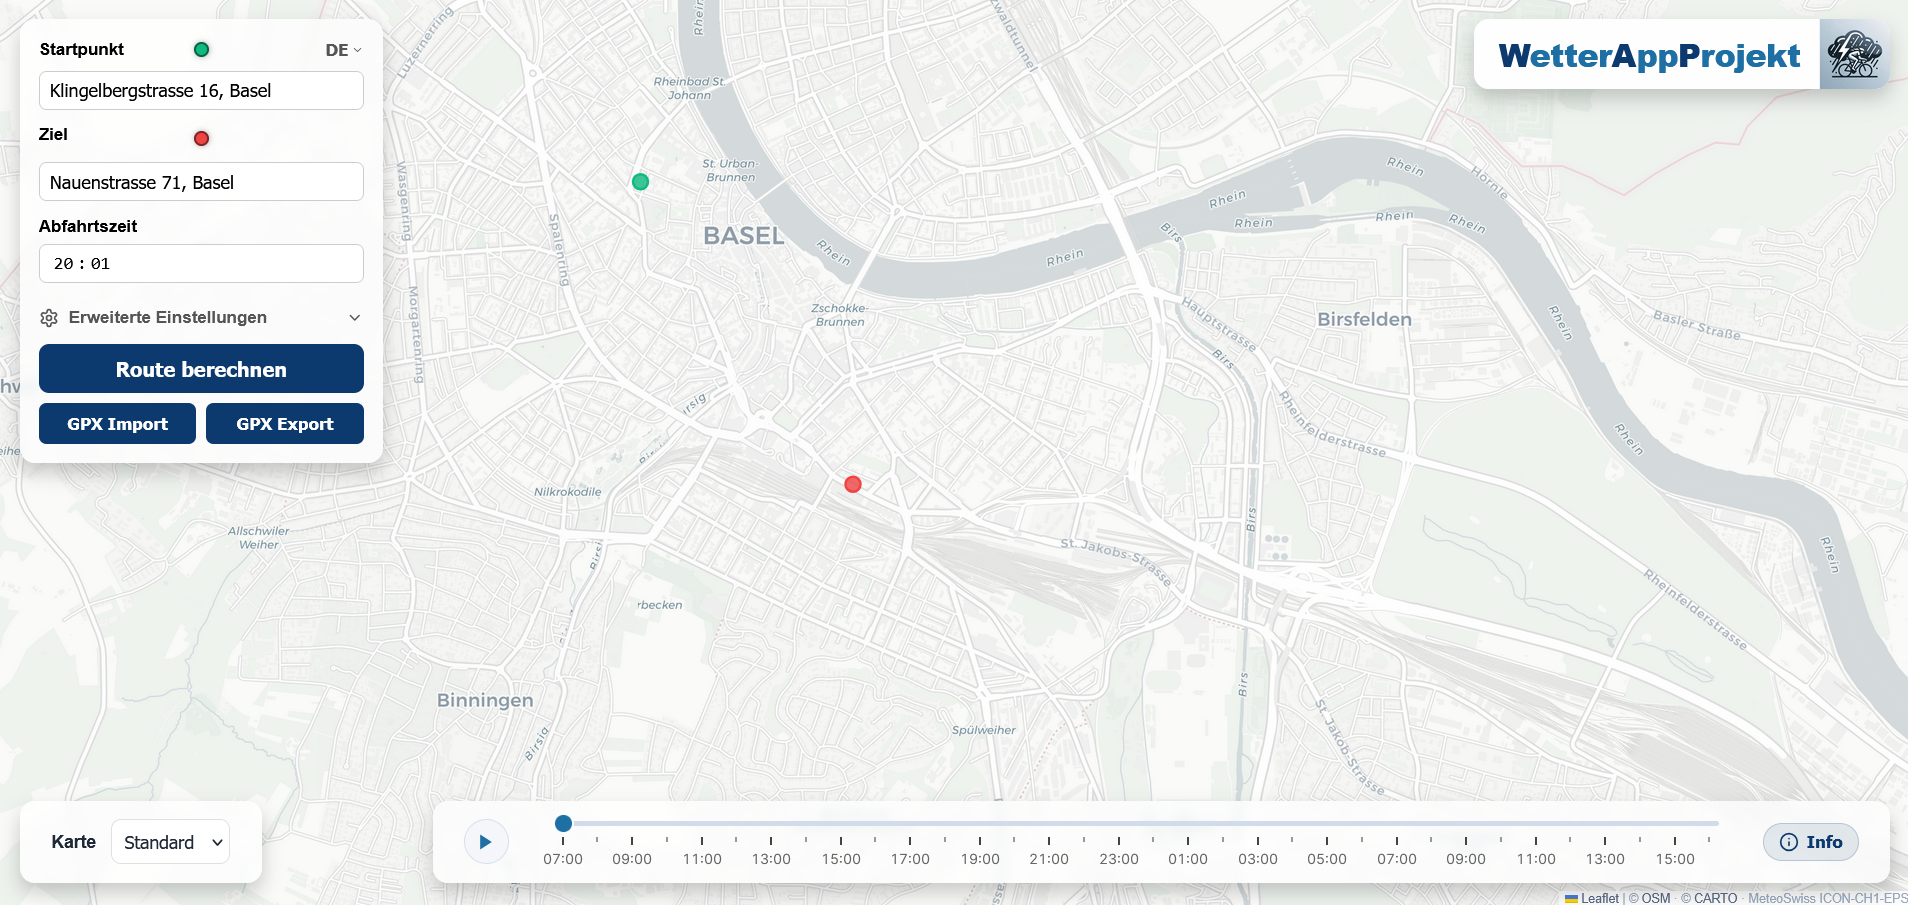
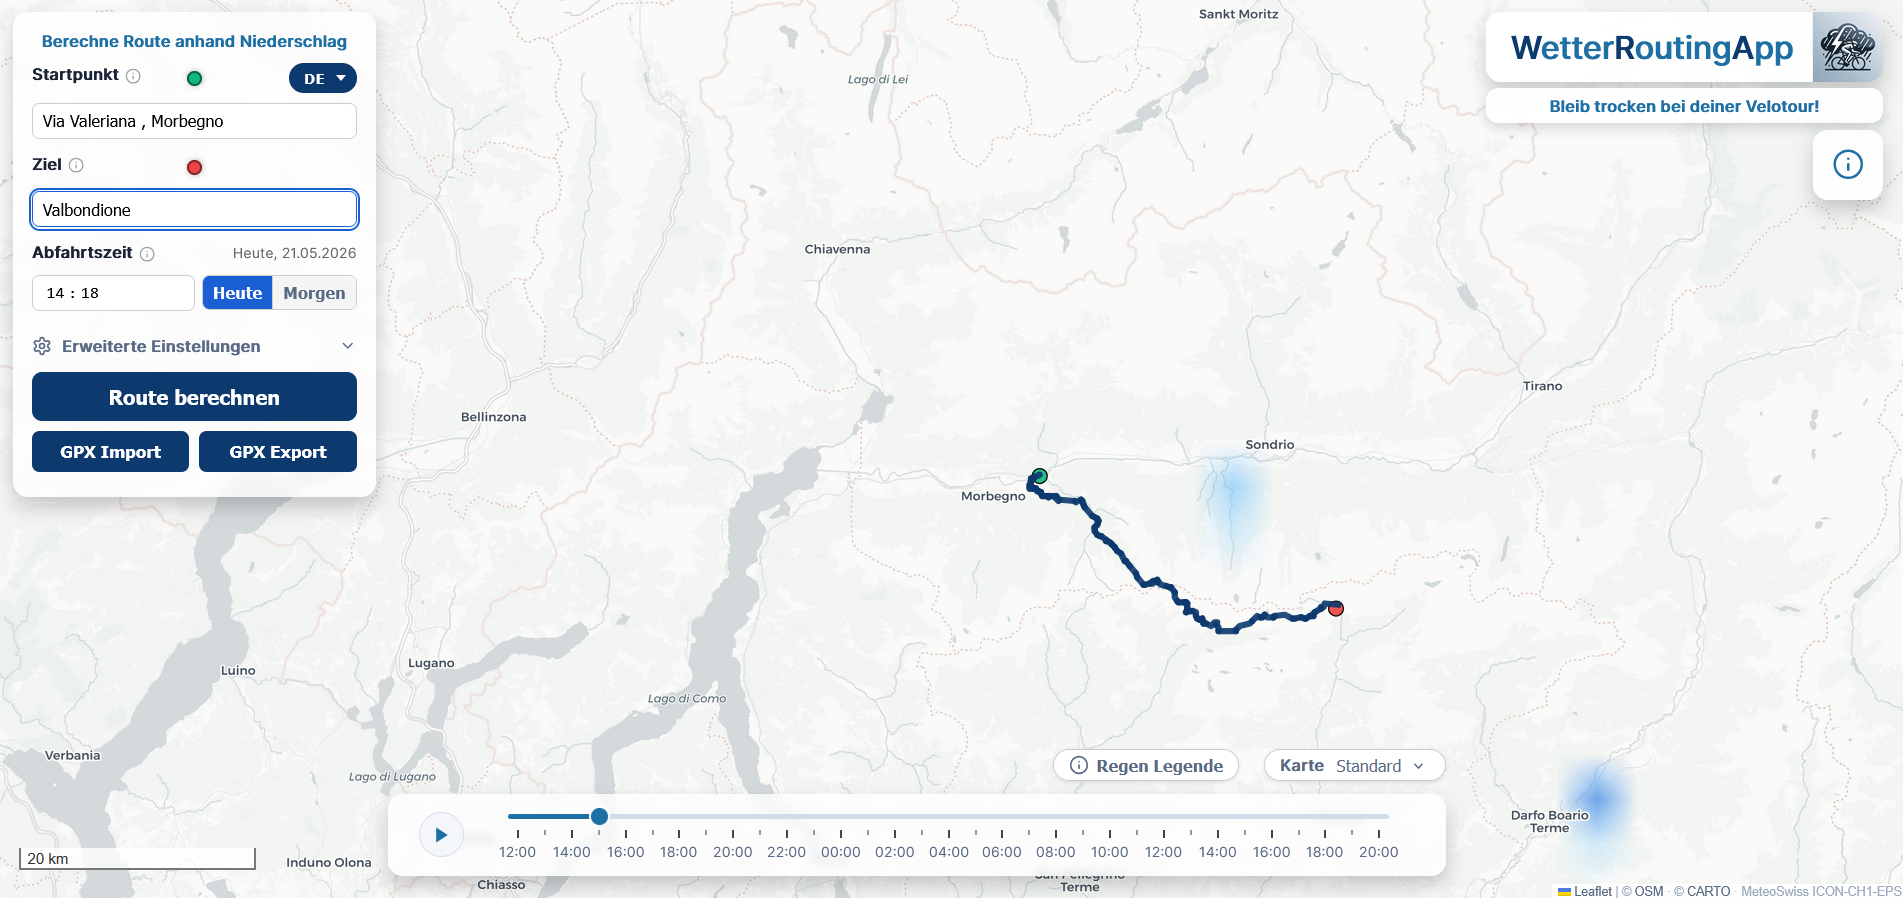
docu ai update

diff --git a/docs/aiusage.md b/docs/aiusage.md
@@ -4,231 +4,59 @@ title: AI Nutzung
 
 # AI Nutzung
 
-Diese Datei beschreibt die Verwendung, Erzeugung und Zuordnung der Wetterdaten im Projekt Wetter Routing App.
+Diese Seite beschreibt, wie und wo künstliche Intelligenz im Projekt eingesetzt wurde: zur Erschliessung von Themenbereichen, beim Debugging, beim Prototyping und bei der Lösung von Architekturproblemen.
 
-## Überblick
+---
 
-Die Wetter Routing App verwendet Wetterdaten im NetCDF-Format, um Routen wetterabhängig bewerten zu können. Die Daten stammen aus dem Open-Data-Angebot von MeteoSwiss und werden im Projekt insbesondere zur Bewertung von Niederschlag entlang einer Route genutzt.
+## Einstieg in die Wetterdaten
 
-Die Wetterdaten ermöglichen es, betroffene Kanten im Routinggraphen zu erkennen und abhängig von der Niederschlagsmenge höher zu gewichten. Dadurch können Routen berechnet werden, die wetterbezogene Einflüsse berücksichtigen.
+Zu Beginn des Projekts war der Umgang mit Wetterdaten und den zugehörigen Formaten weitgehend unbekannt. AI half dabei, einen schnellen Überblick über verfügbare Datenquellen zu gewinnen: Was bietet MeteoSwiss an, welche Formate werden verwendet, was sind die Unterschiede zwischen GRIB2, NetCDF und ICON-Gittern?
 
-Der Zusammenhang mit der API-Verarbeitung ist in [Architektur](architecture.html#aufbau-der-api-verarbeitung) beschrieben. Die Verwendung der Wetterwerte in der Kostenfunktion steht in [Routing-Logik](routing.html#kantenbewertung).
+Nach allgemeinem Recherchieren konnten Vor- und Nachteile verschiedener Ansätze gezielt nachgefragt werden, etwa der Vergleich von ICON-CH1-EPS mit alternativen Quellen wie Copernicus-Satellitendaten. Entscheidend war dabei das Verifizieren, ob vorgeschlagene Ansätze überhaupt umsetzbar und zielführend waren, bevor Zeit in die Implementierung investiert wurde.
 
-## NetCDF-Ablagestruktur
+---
 
-Die Routing-API erwartet die NetCDF-Dateien im folgenden Ordner:
+## Experimentelle Phase mit Notebooks
 
-```text
-backend/data/NC/
-```
+Als Ausgangspunkt für die Wetterdatenverarbeitung wurden Jupyter Notebooks aus dem offiziellen MeteoSwiss-Repository [meteodata-lab](https://github.com/MeteoSwiss/meteodata-lab) erkundet, darunter Beispiele wie `07_where_will_it_rain_next_24h`. Die eigenen Explorations-Notebooks sind im Ordner `_apriori/` abgelegt.
 
-### Wetterdaten
+AI wurde dabei gezielt eingesetzt, um die behandelten Beispiele detaillierter zu erklären und mit relevanten Code-Snippets für das Weitertesten zu erweitern. So konnte schnell ein Verständnis für die Datenstruktur (Ensemble-Member, Lead-Time-Dimensionen, unstrukturiertes ICON-Gitter) aufgebaut werden.
 
-Die Forecast-Dateien enthalten einen Unix-Timestamp im Dateinamen, zum Beispiel:
+Nach dieser Explorationsphase liessen sich die Erkenntnisse rasch in direkte `.py`-Skripte überführen.
 
-```text
-1712345678.nc
-```
+---
 
-Der Timestamp entspricht dem Referenzzeitpunkt des Modellaufs (nicht dem Zeitpunkt des Downloads). Er dient zur Zuordnung der Startzeit einer Routinganfrage und zur Prüfung der zeitlichen Gültigkeit der Datei. Das Backend leitet daraus den Lead-Time-Index ab:
+## Architekturproblem: meteodata-lab und ARM64
 
-```text
-lead_h = (departure_unix - file_stem) / 3600
-```
+Das grösste architekturelle Problem entstand beim Deployment auf den Raspberry Pi. Es wurde zunächst angenommen, dass `meteodata-lab` auf dem Pi lauffähig sei, weil weder Windows noch WSL-Ubuntu grössere Schwierigkeiten zeigten. Auf dem Pi mit ARM64-Architektur fehlten jedoch die nötigen Binaries für `meteodata-lab` und seine Abhängigkeiten (`earthkit`, `rasterio`).
 
-### Hilfsdatei für Wetterzellen
+AI half dabei, einen alternativen Ansatz zu entwickeln: eine direkte Pipeline über den MeteoSwiss STAC-Katalog mit `eccodes` für die GRIB2-Dekodierung und `scipy` für das Regridding. Diese Kombination ist ARM64-kompatibel und bildet heute die Grundlage von `backend/utils_fetch.py`. Mehr dazu steht in [Architektur](architecture.html).
 
-Für die Zuordnung von OSM-Kanten zum Wetterraster wird bevorzugt folgende Datei verwendet:
+> Das Paket `meteodata-lab` (offizieller MeteoSwiss-Client) hat kein ARM64-Package. Es wurde durch eine direkte STAC/eccodes-Implementierung ersetzt.
 
-```text
-NC_for_Cellid.nc
-```
+---
 
-Diese Datei enthält eine reduzierte Rastergeometrie (nur `lat` und `lon`) und wird beim Erstellen neuer Graphen verwendet. Falls sie beim Start noch nicht existiert, wird sie gemäss [Startup](startup.html#schritt-2-nc_for_cellid-vorbereiten) erzeugt.
+## Agentic AI im Projektalltag
 
-## GRIB2-, xarray- und NetCDF-Datenstruktur
+Im Verlauf des Projekts wurde GitHub Copilot mit agentem Modus und Claude Sonnet 4.6 als Modell intensiv genutzt. Die direkte Darstellung des Reasonings war dabei besonders hilfreich: Sie ermöglichte nachzuvollziehen, ob der eigene Prompt präzise genug war, wie plausibel die Fehlersuche des Modells war und wie realistisch der vorgeschlagene Lösungsansatz einzuschätzen ist.
 
-MeteoSwiss veröffentlicht die ICON-CH1-EPS-Daten im GRIB2-Format über den STAC-Katalog (`data.geo.admin.ch`). GRIB2 ist ein binäres Rasterformat der WMO, das Meteorologen weltweit verwenden. Es enthält komprimierte Felder pro Zeitschritt und Ensemble-Member, jedoch ohne reguläre Lat/Lon-Koordinaten, da ICON ein unstrukturiertes Dreiecksgitter verwendet.
+Kombiniert mit dem vollständigen Projektkontext, den man dem Modell mitgeben konnte, wurde Agentic Usage zu einem starken Werkzeug für komplexe Aufgaben. Bei grossen Anpassungen wurde häufig zuerst eine Reihe von Fragen gestellt, um ein genaues Konzept und einen konkreten Ablauf zu planen. Erst danach wurde der Agentic Mode für die Umsetzung verwendet.
 
-Für die Weiterverarbeitung im Projekt ist folgende Umwandlungskette relevant:
+Typische Einsatzgebiete:
 
-```text
-STAC-Katalog (HTTP)
-  → GRIB2-Datei je Lead-Time (34 Dateien × N Ensemble-Member)
-    → eccodes: Dekodierung der Binärdaten zu NumPy-Arrays
-      → scipy KD-Tree: Regridding auf reguläres Lat/Lon-Raster (429 × 295)
-        → xarray.Dataset: Zusammenführung aller Zeitschritte + Dimensionen
-          → netCDF4: Speicherung als .nc-Datei
-```
+| Bereich | Beschreibung |
+| --- | --- |
+| Themenerschliessung | Überblick über Wetterdatenformate, ICON-Modell, Ensemble-Forecasts |
+| Debugging | Eingrenzen von Fehlern in der GRIB2-Pipeline, Graphverarbeitung, API-Antworten |
+| Prototyping | Schnelle Umsetzung von Ideen in lauffähigen Code, z. B. Regridding, Renderer |
+| Architektur | Erarbeitung des STAC-Ansatzes als Ersatz für meteodata-lab auf ARM64 |
+| Dokumentation | Strukturierung und Formulierung dieser Dokumentation |
 
-### Warum diese Umwandlung?
+---
 
-Das ICON-Gitter hat ~600'000 unstrukturierte Gitterpunkte ohne feste Zeilen-/Spaltenindizes. Für das Routing muss aber jede OSM-Kante einem Rasterpunkt zugeordnet werden — das funktioniert nur auf einem regulären Koordinatengitter. xarray erlaubt danach die effiziente Arbeit mit benannten Dimensionen (`lead_time`, `eps`, `y`, `x`), und NetCDF ist das Standardformat für geowissenschaftliche Zeitreihen.
+## Verwendete Modelle
 
-### Inhalt der gespeicherten NC-Datei
-
-Jede gespeicherte Datei enthält drei Variablen:
-
-| Variable | Dimensionen | Beschreibung |
-|---|---|---|
-| `TOT_PREC` | `(eps, lead_time, y, x)` | Kumulierter Niederschlag aller Ensemble-Member (Rohwert) |
-| `hourly_rain` | `(lead_time, y, x)` | Ensemble-Mittelwert des stündlichen Niederschlags (diff von TOT_PREC) |
-| `hourly_rain_p90` | `(lead_time, y, x)` | 90. Perzentil des stündlichen Niederschlags über alle Ensemble-Member |
-
-`TOT_PREC` wird für die Routingkostenfunktion verwendet. `hourly_rain` und `hourly_rain_p90` werden von `utils_render.py` direkt ausgelesen und als PNG-Kacheln gerendert, ohne dass bei der Anfrage noch numpy- oder xarray-Operationen anfallen.
-
-## Aufbereitung der NetCDF-Datei
-
-Die Wetterdaten werden durch `utils_fetch.py` bezogen, verarbeitet und als NetCDF-Datei gespeichert. Das Skript greift per HTTP direkt auf den MeteoSwiss-OGD-STAC-Katalog zu und verarbeitet die Rohdaten mit `eccodes`.
-
-| Parameter | Verwendung im Projekt |
-|---|---|
-| MeteoSwiss-Collection | `ch.meteoschweiz.ogd-forecasting-icon-ch1` |
-| Forecast-Variable | `TOT_PREC`: kumulierter Niederschlag; Grundlage für den daraus abgeleiteten stündlichen Niederschlag |
-| Datenformat | GRIB2 (je Lead-Time eine Datei, je Datei N Ensemble-Member als separate GRIB-Messages) |
-
-### Ablauf der Wetterdaten-Erzeugung
-
-Die Wetterdaten-Erzeugung umfasst folgende Schritte:
-
-1. STAC-Katalog abfragen: Neuesten vollständigen ICON-CH1-Modelllauf ermitteln.
-2. Gitter-Koordinaten laden: ICON-CH1 CLAT/CLON einmalig als `horizontal_constants` GRIB2 (~200 MB) herunterladen und als `.npy` cachen.
-3. Regridding-Indizes aufbauen: Mit `scipy.cKDTree` für jeden Ausgabepixel (429 × 295) den nächsten nativen Gitterpunkt bestimmen. Ergebnis wird als `icon_ch1_regrid_indices.npy` gecacht (Bauzeit ~1 min auf dem Raspberry Pi).
-4. GRIB2 herunterladen und dekodieren: Für alle 34 Lead-Times je eine GRIB2-Datei abrufen; `eccodes` liest daraus je Ensemble-Member ein NumPy-Array.
-5. Regridding anwenden: Die nativen ICON-Vektoren per Fancy-Indexing auf das reguläre 429 × 295 Raster umrechnen.
-6. Dataset zusammenführen: Alle Zeitschritte und Ensemble-Member zu einem `(eps, lead_time, y, x)` xarray-DataArray kombinieren.
-7. Stündlichen Niederschlag und p90 berechnen: `hourly_rain = mean(TOT_PREC, axis=eps).diff("lead_time")`; p90 wird direkt im Speicher mit `np.sort(axis=0)` berechnet.
-8. Sehr kleine Werte unter `0.01 mm/h` auf `0.0` setzen, damit numerische Restwerte nicht als Regen interpretiert werden.
-9. Als timestamp-basierte `.nc`-Datei speichern (drei Variablen: `TOT_PREC`, `hourly_rain`, `hourly_rain_p90`).
-10. `utils_render.py` aufrufen, um sofort alle 33 × 2 PNG-Kacheln zu erzeugen.
-
-### Räumliche Aufbereitung
-
-Die MeteoSwiss-ICON-Daten liegen auf einem unstrukturierten Dreiecksgitter mit ~600'000 Punkten vor. Für die Zellzuordnung im Routinggraphen werden sie auf ein reguläres Raster projiziert:
-
-```text
-Koordinatensystem: EPSG:4326 (WGS84)
-Ausdehnung:        -0.817, 18.183, 41.183, 51.183  (lon_min, lon_max, lat_min, lat_max)
-Rastergrösse:      429 × 295
-```
-
-Die Umrechnung erfolgt mit einem vorberechneten Nearest-Neighbour-Index (scipy KD-Tree). Die Gitter-Koordinaten und der Index werden als `.npy`-Dateien gecacht:
-
-```text
-backend/.fetch_cache/icon_ch1_clat.npy
-backend/.fetch_cache/icon_ch1_clon.npy
-backend/.fetch_cache/icon_ch1_regrid_indices.npy
-```
-
-Diese Bounds stimmen exakt mit `BOUNDS` in `frontend/js/config.js` und dem Zielraster in `utils_render.py` überein. Dies ist später für die Zellzuordnung relevant.
-
-### Zeitliche Aufbereitung
-
-Die Forecast-Horizonte werden im Bereich von **0 bis 33 Stunden** geladen.
-
-Da `TOT_PREC` kumulierten Niederschlag beschreibt, wird daraus der stündliche Niederschlag abgeleitet:
-
-```text
-hourly_rain = mean_precip.diff("lead_time")
-```
-
-Im gespeicherten NetCDF-Dataset stehen dadurch drei zentrale Variablen zur Verfügung:
-
-```text
-TOT_PREC          # kumulierter Niederschlag (Rohwert, alle Ensemble-Member)
-hourly_rain       # Ensemble-Mittelwert des stündlichen Niederschlags
-hourly_rain_p90   # 90. Perzentil des stündlichen Niederschlags
-```
-
-Für das Routing ist `hourly_rain` relevant. `hourly_rain_p90` wird für die Unsicherheits-Visualisierung in der Kartendarstellung verwendet.
-
-### Dateibenennung und Aktualisierung
-
-Die erzeugten NetCDF-Dateien erhalten den Unix-Timestamp des Modell-Referenzzeitpunkts als Dateinamen, zum Beispiel:
-
-```text
-1712345678.nc
-```
-
-Die Aktualisierungslogik:
-
-- Beim Start wird geprüft, ob bereits eine aktuelle `.nc`-Datei vorhanden ist.
-- Falls die Daten veraltet sind, wird sofort ein neuer Forecast geladen.
-- Danach läuft ein Scheduler-Daemon, der neue Daten jeweils kurz nach den ICON-CH1-Modellläufen lädt.
-
-Geplante Fetch-Zeiten:
-
-```text
-00:05, 03:05, 06:05, 09:05, 12:05, 15:05, 18:05, 21:05 UTC
-```
-
-Damit orientiert sich die Aktualisierung am dreistündigen Aktualisierungsrhythmus der ICON-CH1-Daten. Auf dem Raspberry Pi wird `utils_fetch.py` als systemd-Dienst gestartet, siehe [Startup](startup.html).
-
-### Abhängigkeiten
-
-Für das Fetching und die Aufbereitung werden folgende Pakete benötigt. Sie werden über die Projektumgebung installiert, siehe [Installation](installation.html).
-
-Wichtige Pakete:
-
-- `eccodes` — GRIB2-Dekodierung (C-Bibliothek; ARM64-Wheel auf PyPI und conda-forge verfügbar)
-- `scipy` — KD-Tree für Nearest-Neighbour-Regridding
-- `xarray` — Dimensionsbasierte Array-Operationen und NC-Dataset-Assemblierung
-- `netCDF4` — NetCDF-Schreib- und Lesezugriff
-- `requests` — HTTP-Abfragen an den STAC-Katalog
-
-> **Hinweis zur Deployment-Architektur:** Das frühere Paket `meteodata-lab` (offizielle MeteoSwiss-Bibliothek) ist nicht ARM64-kompatibel und wurde deshalb durch eine direkte STAC/eccodes-Implementierung ersetzt. Gleiches gilt für `earthkit` und `rasterio`, die als transitive Abhängigkeiten von `meteodata-lab` weggefallen sind.
-
-## Auswahl der passenden NetCDF-Datei
-
-Bei einer Routinganfrage ruft das Backend die Funktion `get_nc_file(start_time)` auf:
-
-```text
-backend/utils_nc_file.py
-```
-
-Die Funktion durchsucht:
-
-```text
-backend/data/NC/
-```
-
-Dabei gilt:
-
-- Nur `.nc`-Dateien werden berücksichtigt.
-- Dateien ohne numerischen Timestamp werden ignoriert (z.B. `NC_for_Cellid.nc`).
-- Die Datei muss zur angefragten Startzeit passen.
-- Gültig ist eine Datei, wenn sie maximal 33 Stunden alt ist.
-- Von allen gültigen Dateien wird die neueste verwendet.
-
-Logik:
-
-```text
-age = start_time - file_timestamp
-
-gültig, wenn:
-0 <= age <= 33 Stunden
-```
-
-Wenn keine passende Datei gefunden wird, kann keine wetterbasierte Route berechnet werden.
-
-## Zuordnung von Strassenkanten zu Wetterzellen
-
-Damit Wetterdaten im Routing verwendet werden können, müssen die Kanten des OSM-Graphen mit dem Wetterraster verknüpft werden. Diese Zuordnung verbindet die räumliche Struktur des Wegenetzes mit den Rasterzellen der NetCDF-Datei.
-
-Der Prozess wird beim Erstellen eines neuen Graphen ausgeführt und die berechneten Zellinformationen werden anschliessend direkt im Graphen gespeichert.
-
-Ablauf:
-
-1. Das Wetterraster wird aus `NC_for_Cellid.nc` gelesen.
-2. Aus den Rasterpunkten wird ein KD-Tree aufgebaut.
-3. Für jede OSM-Kante wird ein Referenzpunkt bestimmt, in der Regel der Mittelpunkt der Geometrie.
-4. Der nächstgelegene Rasterpunkt wird gesucht.
-5. Die Kante erhält die Attribute `cell_i`, `cell_j` und `cell_id`.
-
-Diese Attribute bleiben im gespeicherten Graphen erhalten und können bei späteren Routinganfragen direkt wiederverwendet werden.
-
-### Vorteil der Zellzuordnung
-
-Die Zuordnung muss nicht bei jeder Routinganfrage neu berechnet werden. Das verbessert die Laufzeit, reduziert wiederholte Rasterabfragen und macht gespeicherte Graphen wiederverwendbar.
-
-Weitere Informationen zur Verwendung dieser Zellattribute in der Routenberechnung befinden sich in [Routing-Logik](routing.html#wetterzellen-auf-kanten).
+| Modell | Anbieter |
+| --- | --- |
+| Claude Sonnet 4.6 | Anthropic (via GitHub Copilot) |
+| Gemini 3.1 | Google |

diff --git a/docs/index.md b/docs/index.md
@@ -75,7 +75,7 @@ Detaillierte Hinweise zur Einrichtung stehen in [Installation](installation.html
 ## Repository
 
 Das Repository ist unter folgendem Link aufrufbar:
-[https://github.com/VPGIS/VPRouting](https://github.com/VPGIS/VPRouting)
+[https://github.com/VPGIS/WetterRoutingApp](https://github.com/VPGIS/WetterRoutingApp)
 
 ## Projektteam
 
